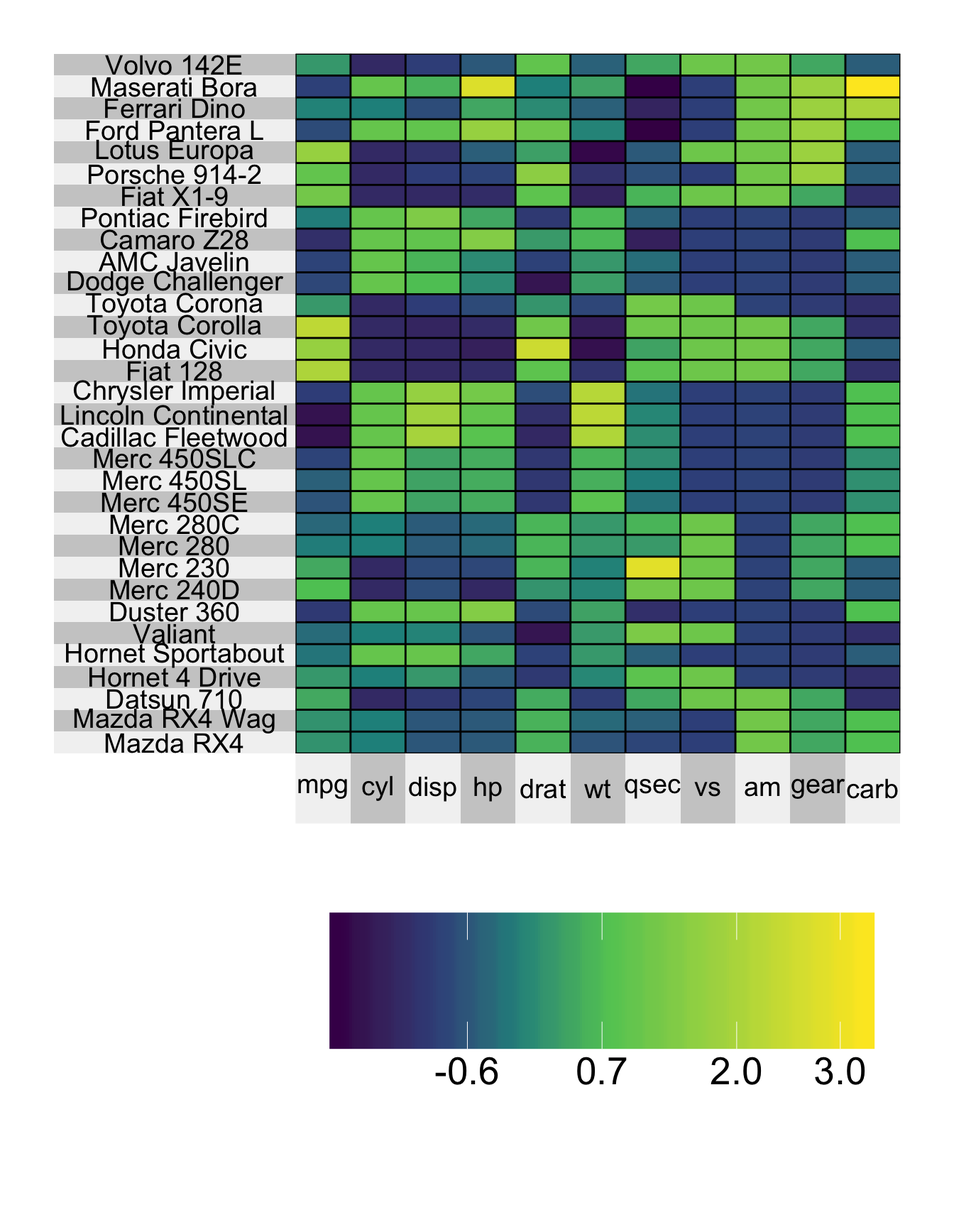
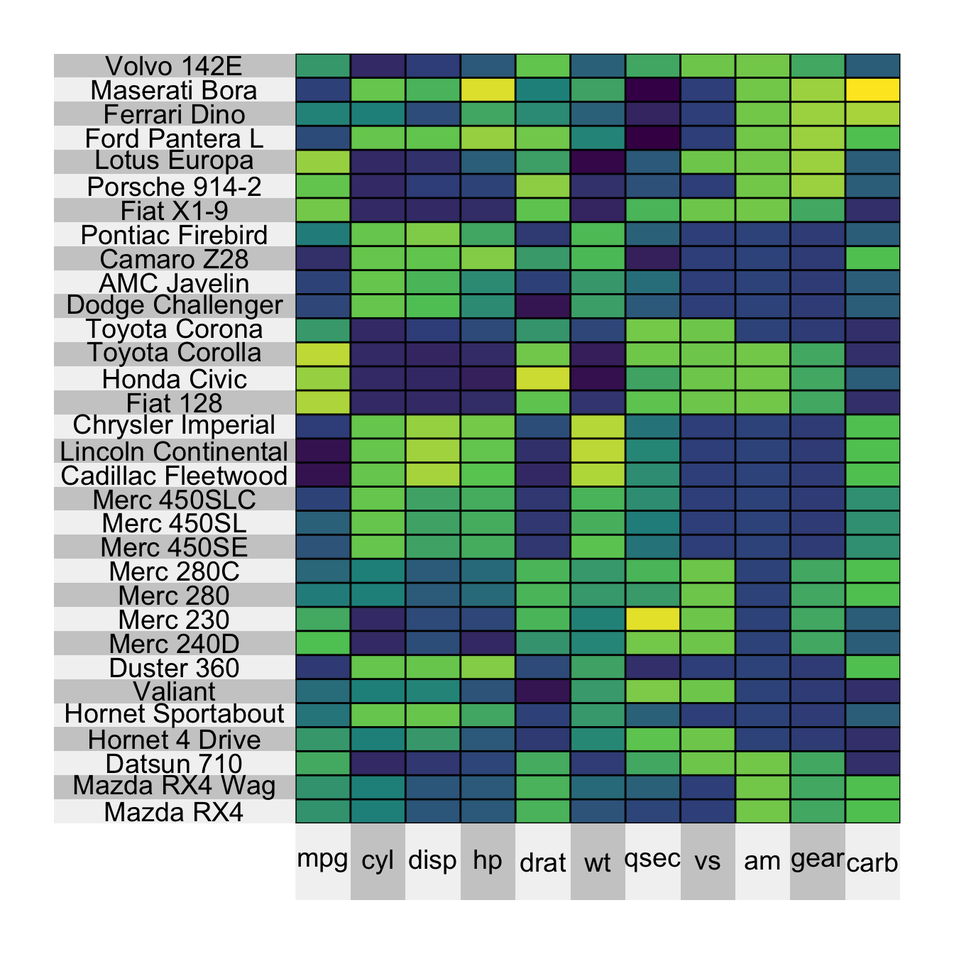
Updated label text size documentation (docathon)

diff --git a/labels.html b/labels.html
@@ -165,9 +165,10 @@ code > span.in { color: #60a0b0; font-weight: bold; font-style: italic; } /* Inf
 <li class="chapter" data-level="10.1" data-path="labels.html"><a href="labels.html#removing-the-labels"><i class="fa fa-check"></i><b>10.1</b> Removing the labels</a></li>
 <li class="chapter" data-level="10.2" data-path="labels.html"><a href="labels.html#label-size"><i class="fa fa-check"></i><b>10.2</b> Label size</a></li>
 <li class="chapter" data-level="10.3" data-path="labels.html"><a href="labels.html#label-color"><i class="fa fa-check"></i><b>10.3</b> Label color</a></li>
-<li class="chapter" data-level="10.4" data-path="labels.html"><a href="labels.html#text-color-1"><i class="fa fa-check"></i><b>10.4</b> Text color</a></li>
-<li class="chapter" data-level="10.5" data-path="labels.html"><a href="labels.html#text-angle-1"><i class="fa fa-check"></i><b>10.5</b> Text angle</a></li>
-<li class="chapter" data-level="10.6" data-path="labels.html"><a href="labels.html#text-alignment"><i class="fa fa-check"></i><b>10.6</b> Text alignment</a></li>
+<li class="chapter" data-level="10.4" data-path="labels.html"><a href="labels.html#label-text-size"><i class="fa fa-check"></i><b>10.4</b> Text size</a></li>
+<li class="chapter" data-level="10.5" data-path="labels.html"><a href="labels.html#text-color-1"><i class="fa fa-check"></i><b>10.5</b> Text color</a></li>
+<li class="chapter" data-level="10.6" data-path="labels.html"><a href="labels.html#text-angle-1"><i class="fa fa-check"></i><b>10.6</b> Text angle</a></li>
+<li class="chapter" data-level="10.7" data-path="labels.html"><a href="labels.html#text-alignment"><i class="fa fa-check"></i><b>10.7</b> Text alignment</a></li>
 </ul></li>
 <li class="chapter" data-level="11" data-path="grid-aesthetics.html"><a href="grid-aesthetics.html"><i class="fa fa-check"></i><b>11</b> Grid aesthetics</a><ul>
 <li class="chapter" data-level="11.1" data-path="grid-aesthetics.html"><a href="grid-aesthetics.html#removing-the-grid"><i class="fa fa-check"></i><b>11.1</b> Removing the grid</a></li>
@@ -217,7 +218,7 @@ code > span.in { color: #60a0b0; font-weight: bold; font-style: italic; } /* Inf
 </div>
 <div id="label-size" class="section level2">
 <h2><span class="header-section-number">10.2</span> Label size</h2>
-<p>We have already seen changing the size of the labels using <code>left.label.size</code> and <code>bottom.label.size</code>.</p>
+<p>We have already seen changing the size of the labels using <code>left.label.size</code> and <code>bottom.label.size</code>. Note that this changes the size of the label bar but does not <a href="labels.html#label-text-size">change the text size</a>.</p>
 </div>
 <div id="label-color" class="section level2">
 <h2><span class="header-section-number">10.3</span> Label color</h2>
@@ -233,22 +234,36 @@ code > span.in { color: #60a0b0; font-weight: bold; font-style: italic; } /* Inf
           <span class="dt">scale =</span> <span class="ot">TRUE</span>)</code></pre></div>
 <p><img src="superheat-vignette_files/figure-html/unnamed-chunk-38-1.png" width="672" style="display: block; margin: auto;" /></p>
 </div>
+<div id="label-text-size" class="section level2">
+<h2><span class="header-section-number">10.4</span> Text size</h2>
+<p>The size of the label text can be changed using the <code>left.label.text.size</code> and <code>bottom.label.text.size</code> arguments.</p>
+<div class="sourceCode"><pre class="sourceCode r"><code class="sourceCode r"><span class="kw">superheat</span>(<span class="dt">X =</span> mtcars, <span class="co"># heatmap matrix</span>
+          <span class="co"># change the size of the labels</span>
+          <span class="dt">left.label.size =</span> <span class="fl">0.6</span>,
+          <span class="dt">bottom.label.size =</span> <span class="fl">0.1</span>,
+          <span class="co"># change the size of the label text</span>
+          <span class="dt">left.label.text.size =</span> <span class="dv">8</span>,
+          <span class="dt">bottom.label.text.size =</span> <span class="dv">6</span>,
+          <span class="co"># scale the matrix columns</span>
+          <span class="dt">scale =</span> <span class="ot">TRUE</span>)</code></pre></div>
+<p><img src="superheat-vignette_files/figure-html/unnamed-chunk-39-1.png" width="864" style="display: block; margin: auto;" /></p>
+</div>
 <div id="text-color-1" class="section level2">
-<h2><span class="header-section-number">10.4</span> Text color</h2>
+<h2><span class="header-section-number">10.5</span> Text color</h2>
 <p>Changing the color of the text can be achieved using the <code>left.label.text.col</code> and <code>bottom.label.text.col</code> arguments.</p>
 <div class="sourceCode"><pre class="sourceCode r"><code class="sourceCode r"><span class="kw">superheat</span>(<span class="dt">X =</span> mtcars, <span class="co"># heatmap matrix</span>
           <span class="co"># change the size of the labels</span>
           <span class="dt">left.label.size =</span> <span class="fl">0.4</span>,
           <span class="dt">bottom.label.size =</span> <span class="fl">0.1</span>,
           <span class="co"># change the color of the label text</span>
-          <span class="dt">left.label.text.col =</span> <span class="st">&quot;#e7298a&quot;</span>,
-          <span class="dt">bottom.label.text.col =</span> <span class="kw">c</span>(<span class="st">&quot;#1b9e77&quot;</span>, <span class="st">&quot;#d95f02&quot;</span>, <span class="st">&quot;#7570b3&quot;</span>),
+          <span class="dt">left.label.col =</span> <span class="st">&quot;white&quot;</span>,
+          <span class="dt">bottom.label.col =</span> <span class="kw">c</span>(<span class="st">&quot;#b3e2cd&quot;</span>,<span class="st">&quot;#fdcdac&quot;</span>,<span class="st">&quot;#e5d8bd&quot;</span>),
           <span class="co"># scale the matrix columns</span>
           <span class="dt">scale =</span> <span class="ot">TRUE</span>)</code></pre></div>
-<p><img src="superheat-vignette_files/figure-html/unnamed-chunk-39-1.png" width="672" style="display: block; margin: auto;" /></p>
+<p><img src="superheat-vignette_files/figure-html/unnamed-chunk-40-1.png" width="672" style="display: block; margin: auto;" /></p>
 </div>
 <div id="text-angle-1" class="section level2">
-<h2><span class="header-section-number">10.5</span> Text angle</h2>
+<h2><span class="header-section-number">10.6</span> Text angle</h2>
 <p>By default, the text has angle 0. Rotating the text by <span class="math inline">\(x\)</span> degrees can be achieved using <code>left.label.text.angle = x</code> or <code>bottom.label.text.angle = x</code>.</p>
 <div class="sourceCode"><pre class="sourceCode r"><code class="sourceCode r"><span class="kw">superheat</span>(<span class="dt">X =</span> mtcars, <span class="co"># heatmap matrix</span>
           <span class="co"># change the size of the labels</span>
@@ -258,10 +273,10 @@ code > span.in { color: #60a0b0; font-weight: bold; font-style: italic; } /* Inf
           <span class="dt">bottom.label.text.angle =</span> <span class="dv">90</span>,
           <span class="co"># scale the matrix columns</span>
           <span class="dt">scale =</span> <span class="ot">TRUE</span>)</code></pre></div>
-<p><img src="superheat-vignette_files/figure-html/unnamed-chunk-40-1.png" width="672" style="display: block; margin: auto;" /></p>
+<p><img src="superheat-vignette_files/figure-html/unnamed-chunk-41-1.png" width="672" style="display: block; margin: auto;" /></p>
 </div>
 <div id="text-alignment" class="section level2">
-<h2><span class="header-section-number">10.6</span> Text alignment</h2>
+<h2><span class="header-section-number">10.7</span> Text alignment</h2>
 <p>By default, the text is center-aligned. Changing to right-aligned or left-aligned can be achieved using the <code>left.label.text.alignment</code> and <code>bottom.label.text.alignment</code> arguments.</p>
 <div class="sourceCode"><pre class="sourceCode r"><code class="sourceCode r"><span class="kw">superheat</span>(<span class="dt">X =</span> mtcars, <span class="co"># heatmap matrix</span>
           <span class="co"># change the size of the labels</span>
@@ -273,7 +288,7 @@ code > span.in { color: #60a0b0; font-weight: bold; font-style: italic; } /* Inf
           <span class="dt">bottom.label.text.alignment =</span> <span class="st">&quot;right&quot;</span>,
           <span class="co"># scale the matrix columns</span>
           <span class="dt">scale =</span> <span class="ot">TRUE</span>)</code></pre></div>
-<p><img src="superheat-vignette_files/figure-html/unnamed-chunk-41-1.png" width="672" style="display: block; margin: auto;" /></p>
+<p><img src="superheat-vignette_files/figure-html/unnamed-chunk-42-1.png" width="672" style="display: block; margin: auto;" /></p>
 
 </div>
 </div>

diff --git a/legend.html b/legend.html
@@ -165,9 +165,10 @@ code > span.in { color: #60a0b0; font-weight: bold; font-style: italic; } /* Inf
 <li class="chapter" data-level="10.1" data-path="labels.html"><a href="labels.html#removing-the-labels"><i class="fa fa-check"></i><b>10.1</b> Removing the labels</a></li>
 <li class="chapter" data-level="10.2" data-path="labels.html"><a href="labels.html#label-size"><i class="fa fa-check"></i><b>10.2</b> Label size</a></li>
 <li class="chapter" data-level="10.3" data-path="labels.html"><a href="labels.html#label-color"><i class="fa fa-check"></i><b>10.3</b> Label color</a></li>
-<li class="chapter" data-level="10.4" data-path="labels.html"><a href="labels.html#text-color-1"><i class="fa fa-check"></i><b>10.4</b> Text color</a></li>
-<li class="chapter" data-level="10.5" data-path="labels.html"><a href="labels.html#text-angle-1"><i class="fa fa-check"></i><b>10.5</b> Text angle</a></li>
-<li class="chapter" data-level="10.6" data-path="labels.html"><a href="labels.html#text-alignment"><i class="fa fa-check"></i><b>10.6</b> Text alignment</a></li>
+<li class="chapter" data-level="10.4" data-path="labels.html"><a href="labels.html#label-text-size"><i class="fa fa-check"></i><b>10.4</b> Text size</a></li>
+<li class="chapter" data-level="10.5" data-path="labels.html"><a href="labels.html#text-color-1"><i class="fa fa-check"></i><b>10.5</b> Text color</a></li>
+<li class="chapter" data-level="10.6" data-path="labels.html"><a href="labels.html#text-angle-1"><i class="fa fa-check"></i><b>10.6</b> Text angle</a></li>
+<li class="chapter" data-level="10.7" data-path="labels.html"><a href="labels.html#text-alignment"><i class="fa fa-check"></i><b>10.7</b> Text alignment</a></li>
 </ul></li>
 <li class="chapter" data-level="11" data-path="grid-aesthetics.html"><a href="grid-aesthetics.html"><i class="fa fa-check"></i><b>11</b> Grid aesthetics</a><ul>
 <li class="chapter" data-level="11.1" data-path="grid-aesthetics.html"><a href="grid-aesthetics.html#removing-the-grid"><i class="fa fa-check"></i><b>11.1</b> Removing the grid</a></li>
@@ -214,7 +215,7 @@ code > span.in { color: #60a0b0; font-weight: bold; font-style: italic; } /* Inf
           
           <span class="co"># remove the legend</span>
           <span class="dt">legend =</span> <span class="ot">FALSE</span>)</code></pre></div>
-<p><img src="superheat-vignette_files/figure-html/unnamed-chunk-42-1.png" width="672" style="display: block; margin: auto;" /></p>
+<p><img src="superheat-vignette_files/figure-html/unnamed-chunk-43-1.png" width="672" style="display: block; margin: auto;" /></p>
 </div>
 <div id="size-3" class="section level2">
 <h2><span class="header-section-number">12.2</span> Size</h2>
@@ -230,7 +231,7 @@ code > span.in { color: #60a0b0; font-weight: bold; font-style: italic; } /* Inf
           <span class="dt">legend.height =</span> <span class="fl">0.5</span>,
           <span class="dt">legend.width =</span> <span class="dv">2</span>,
           <span class="dt">legend.text.size =</span> <span class="dv">20</span>)</code></pre></div>
-<p><img src="superheat-vignette_files/figure-html/unnamed-chunk-43-1.png" width="672" style="display: block; margin: auto;" /></p>
+<p><img src="superheat-vignette_files/figure-html/unnamed-chunk-44-1.png" width="672" style="display: block; margin: auto;" /></p>
 </div>
 <div id="legend-breaks" class="section level2">
 <h2><span class="header-section-number">12.3</span> Legend breaks</h2>
@@ -244,7 +245,7 @@ code > span.in { color: #60a0b0; font-weight: bold; font-style: italic; } /* Inf
           
           <span class="co"># specify the legend breaks</span>
           <span class="dt">legend.breaks =</span> <span class="kw">c</span>(-<span class="fl">0.5</span>, <span class="fl">0.5</span>, <span class="fl">1.5</span>))</code></pre></div>
-<p><img src="superheat-vignette_files/figure-html/unnamed-chunk-44-1.png" width="672" style="display: block; margin: auto;" /></p>
+<p><img src="superheat-vignette_files/figure-html/unnamed-chunk-45-1.png" width="672" style="display: block; margin: auto;" /></p>
 
 </div>
 </div>

diff --git a/adding-text.html b/adding-text.html
@@ -165,9 +165,10 @@ code > span.in { color: #60a0b0; font-weight: bold; font-style: italic; } /* Inf
 <li class="chapter" data-level="10.1" data-path="labels.html"><a href="labels.html#removing-the-labels"><i class="fa fa-check"></i><b>10.1</b> Removing the labels</a></li>
 <li class="chapter" data-level="10.2" data-path="labels.html"><a href="labels.html#label-size"><i class="fa fa-check"></i><b>10.2</b> Label size</a></li>
 <li class="chapter" data-level="10.3" data-path="labels.html"><a href="labels.html#label-color"><i class="fa fa-check"></i><b>10.3</b> Label color</a></li>
-<li class="chapter" data-level="10.4" data-path="labels.html"><a href="labels.html#text-color-1"><i class="fa fa-check"></i><b>10.4</b> Text color</a></li>
-<li class="chapter" data-level="10.5" data-path="labels.html"><a href="labels.html#text-angle-1"><i class="fa fa-check"></i><b>10.5</b> Text angle</a></li>
-<li class="chapter" data-level="10.6" data-path="labels.html"><a href="labels.html#text-alignment"><i class="fa fa-check"></i><b>10.6</b> Text alignment</a></li>
+<li class="chapter" data-level="10.4" data-path="labels.html"><a href="labels.html#label-text-size"><i class="fa fa-check"></i><b>10.4</b> Text size</a></li>
+<li class="chapter" data-level="10.5" data-path="labels.html"><a href="labels.html#text-color-1"><i class="fa fa-check"></i><b>10.5</b> Text color</a></li>
+<li class="chapter" data-level="10.6" data-path="labels.html"><a href="labels.html#text-angle-1"><i class="fa fa-check"></i><b>10.6</b> Text angle</a></li>
+<li class="chapter" data-level="10.7" data-path="labels.html"><a href="labels.html#text-alignment"><i class="fa fa-check"></i><b>10.7</b> Text alignment</a></li>
 </ul></li>
 <li class="chapter" data-level="11" data-path="grid-aesthetics.html"><a href="grid-aesthetics.html"><i class="fa fa-check"></i><b>11</b> Grid aesthetics</a><ul>
 <li class="chapter" data-level="11.1" data-path="grid-aesthetics.html"><a href="grid-aesthetics.html#removing-the-grid"><i class="fa fa-check"></i><b>11.1</b> Removing the grid</a></li>

diff --git a/adjacent-plots.html b/adjacent-plots.html
@@ -165,9 +165,10 @@ code > span.in { color: #60a0b0; font-weight: bold; font-style: italic; } /* Inf
 <li class="chapter" data-level="10.1" data-path="labels.html"><a href="labels.html#removing-the-labels"><i class="fa fa-check"></i><b>10.1</b> Removing the labels</a></li>
 <li class="chapter" data-level="10.2" data-path="labels.html"><a href="labels.html#label-size"><i class="fa fa-check"></i><b>10.2</b> Label size</a></li>
 <li class="chapter" data-level="10.3" data-path="labels.html"><a href="labels.html#label-color"><i class="fa fa-check"></i><b>10.3</b> Label color</a></li>
-<li class="chapter" data-level="10.4" data-path="labels.html"><a href="labels.html#text-color-1"><i class="fa fa-check"></i><b>10.4</b> Text color</a></li>
-<li class="chapter" data-level="10.5" data-path="labels.html"><a href="labels.html#text-angle-1"><i class="fa fa-check"></i><b>10.5</b> Text angle</a></li>
-<li class="chapter" data-level="10.6" data-path="labels.html"><a href="labels.html#text-alignment"><i class="fa fa-check"></i><b>10.6</b> Text alignment</a></li>
+<li class="chapter" data-level="10.4" data-path="labels.html"><a href="labels.html#label-text-size"><i class="fa fa-check"></i><b>10.4</b> Text size</a></li>
+<li class="chapter" data-level="10.5" data-path="labels.html"><a href="labels.html#text-color-1"><i class="fa fa-check"></i><b>10.5</b> Text color</a></li>
+<li class="chapter" data-level="10.6" data-path="labels.html"><a href="labels.html#text-angle-1"><i class="fa fa-check"></i><b>10.6</b> Text angle</a></li>
+<li class="chapter" data-level="10.7" data-path="labels.html"><a href="labels.html#text-alignment"><i class="fa fa-check"></i><b>10.7</b> Text alignment</a></li>
 </ul></li>
 <li class="chapter" data-level="11" data-path="grid-aesthetics.html"><a href="grid-aesthetics.html"><i class="fa fa-check"></i><b>11</b> Grid aesthetics</a><ul>
 <li class="chapter" data-level="11.1" data-path="grid-aesthetics.html"><a href="grid-aesthetics.html#removing-the-grid"><i class="fa fa-check"></i><b>11.1</b> Removing the grid</a></li>

diff --git a/basic-usage.html b/basic-usage.html
@@ -165,9 +165,10 @@ code > span.in { color: #60a0b0; font-weight: bold; font-style: italic; } /* Inf
 <li class="chapter" data-level="10.1" data-path="labels.html"><a href="labels.html#removing-the-labels"><i class="fa fa-check"></i><b>10.1</b> Removing the labels</a></li>
 <li class="chapter" data-level="10.2" data-path="labels.html"><a href="labels.html#label-size"><i class="fa fa-check"></i><b>10.2</b> Label size</a></li>
 <li class="chapter" data-level="10.3" data-path="labels.html"><a href="labels.html#label-color"><i class="fa fa-check"></i><b>10.3</b> Label color</a></li>
-<li class="chapter" data-level="10.4" data-path="labels.html"><a href="labels.html#text-color-1"><i class="fa fa-check"></i><b>10.4</b> Text color</a></li>
-<li class="chapter" data-level="10.5" data-path="labels.html"><a href="labels.html#text-angle-1"><i class="fa fa-check"></i><b>10.5</b> Text angle</a></li>
-<li class="chapter" data-level="10.6" data-path="labels.html"><a href="labels.html#text-alignment"><i class="fa fa-check"></i><b>10.6</b> Text alignment</a></li>
+<li class="chapter" data-level="10.4" data-path="labels.html"><a href="labels.html#label-text-size"><i class="fa fa-check"></i><b>10.4</b> Text size</a></li>
+<li class="chapter" data-level="10.5" data-path="labels.html"><a href="labels.html#text-color-1"><i class="fa fa-check"></i><b>10.5</b> Text color</a></li>
+<li class="chapter" data-level="10.6" data-path="labels.html"><a href="labels.html#text-angle-1"><i class="fa fa-check"></i><b>10.6</b> Text angle</a></li>
+<li class="chapter" data-level="10.7" data-path="labels.html"><a href="labels.html#text-alignment"><i class="fa fa-check"></i><b>10.7</b> Text alignment</a></li>
 </ul></li>
 <li class="chapter" data-level="11" data-path="grid-aesthetics.html"><a href="grid-aesthetics.html"><i class="fa fa-check"></i><b>11</b> Grid aesthetics</a><ul>
 <li class="chapter" data-level="11.1" data-path="grid-aesthetics.html"><a href="grid-aesthetics.html#removing-the-grid"><i class="fa fa-check"></i><b>11.1</b> Removing the grid</a></li>

diff --git a/clustering.html b/clustering.html
@@ -165,9 +165,10 @@ code > span.in { color: #60a0b0; font-weight: bold; font-style: italic; } /* Inf
 <li class="chapter" data-level="10.1" data-path="labels.html"><a href="labels.html#removing-the-labels"><i class="fa fa-check"></i><b>10.1</b> Removing the labels</a></li>
 <li class="chapter" data-level="10.2" data-path="labels.html"><a href="labels.html#label-size"><i class="fa fa-check"></i><b>10.2</b> Label size</a></li>
 <li class="chapter" data-level="10.3" data-path="labels.html"><a href="labels.html#label-color"><i class="fa fa-check"></i><b>10.3</b> Label color</a></li>
-<li class="chapter" data-level="10.4" data-path="labels.html"><a href="labels.html#text-color-1"><i class="fa fa-check"></i><b>10.4</b> Text color</a></li>
-<li class="chapter" data-level="10.5" data-path="labels.html"><a href="labels.html#text-angle-1"><i class="fa fa-check"></i><b>10.5</b> Text angle</a></li>
-<li class="chapter" data-level="10.6" data-path="labels.html"><a href="labels.html#text-alignment"><i class="fa fa-check"></i><b>10.6</b> Text alignment</a></li>
+<li class="chapter" data-level="10.4" data-path="labels.html"><a href="labels.html#label-text-size"><i class="fa fa-check"></i><b>10.4</b> Text size</a></li>
+<li class="chapter" data-level="10.5" data-path="labels.html"><a href="labels.html#text-color-1"><i class="fa fa-check"></i><b>10.5</b> Text color</a></li>
+<li class="chapter" data-level="10.6" data-path="labels.html"><a href="labels.html#text-angle-1"><i class="fa fa-check"></i><b>10.6</b> Text angle</a></li>
+<li class="chapter" data-level="10.7" data-path="labels.html"><a href="labels.html#text-alignment"><i class="fa fa-check"></i><b>10.7</b> Text alignment</a></li>
 </ul></li>
 <li class="chapter" data-level="11" data-path="grid-aesthetics.html"><a href="grid-aesthetics.html"><i class="fa fa-check"></i><b>11</b> Grid aesthetics</a><ul>
 <li class="chapter" data-level="11.1" data-path="grid-aesthetics.html"><a href="grid-aesthetics.html#removing-the-grid"><i class="fa fa-check"></i><b>11.1</b> Removing the grid</a></li>

diff --git a/conclusion.html b/conclusion.html
@@ -165,9 +165,10 @@ code > span.in { color: #60a0b0; font-weight: bold; font-style: italic; } /* Inf
 <li class="chapter" data-level="10.1" data-path="labels.html"><a href="labels.html#removing-the-labels"><i class="fa fa-check"></i><b>10.1</b> Removing the labels</a></li>
 <li class="chapter" data-level="10.2" data-path="labels.html"><a href="labels.html#label-size"><i class="fa fa-check"></i><b>10.2</b> Label size</a></li>
 <li class="chapter" data-level="10.3" data-path="labels.html"><a href="labels.html#label-color"><i class="fa fa-check"></i><b>10.3</b> Label color</a></li>
-<li class="chapter" data-level="10.4" data-path="labels.html"><a href="labels.html#text-color-1"><i class="fa fa-check"></i><b>10.4</b> Text color</a></li>
-<li class="chapter" data-level="10.5" data-path="labels.html"><a href="labels.html#text-angle-1"><i class="fa fa-check"></i><b>10.5</b> Text angle</a></li>
-<li class="chapter" data-level="10.6" data-path="labels.html"><a href="labels.html#text-alignment"><i class="fa fa-check"></i><b>10.6</b> Text alignment</a></li>
+<li class="chapter" data-level="10.4" data-path="labels.html"><a href="labels.html#label-text-size"><i class="fa fa-check"></i><b>10.4</b> Text size</a></li>
+<li class="chapter" data-level="10.5" data-path="labels.html"><a href="labels.html#text-color-1"><i class="fa fa-check"></i><b>10.5</b> Text color</a></li>
+<li class="chapter" data-level="10.6" data-path="labels.html"><a href="labels.html#text-angle-1"><i class="fa fa-check"></i><b>10.6</b> Text angle</a></li>
+<li class="chapter" data-level="10.7" data-path="labels.html"><a href="labels.html#text-alignment"><i class="fa fa-check"></i><b>10.7</b> Text alignment</a></li>
 </ul></li>
 <li class="chapter" data-level="11" data-path="grid-aesthetics.html"><a href="grid-aesthetics.html"><i class="fa fa-check"></i><b>11</b> Grid aesthetics</a><ul>
 <li class="chapter" data-level="11.1" data-path="grid-aesthetics.html"><a href="grid-aesthetics.html#removing-the-grid"><i class="fa fa-check"></i><b>11.1</b> Removing the grid</a></li>

diff --git a/grid-aesthetics.html b/grid-aesthetics.html
@@ -165,9 +165,10 @@ code > span.in { color: #60a0b0; font-weight: bold; font-style: italic; } /* Inf
 <li class="chapter" data-level="10.1" data-path="labels.html"><a href="labels.html#removing-the-labels"><i class="fa fa-check"></i><b>10.1</b> Removing the labels</a></li>
 <li class="chapter" data-level="10.2" data-path="labels.html"><a href="labels.html#label-size"><i class="fa fa-check"></i><b>10.2</b> Label size</a></li>
 <li class="chapter" data-level="10.3" data-path="labels.html"><a href="labels.html#label-color"><i class="fa fa-check"></i><b>10.3</b> Label color</a></li>
-<li class="chapter" data-level="10.4" data-path="labels.html"><a href="labels.html#text-color-1"><i class="fa fa-check"></i><b>10.4</b> Text color</a></li>
-<li class="chapter" data-level="10.5" data-path="labels.html"><a href="labels.html#text-angle-1"><i class="fa fa-check"></i><b>10.5</b> Text angle</a></li>
-<li class="chapter" data-level="10.6" data-path="labels.html"><a href="labels.html#text-alignment"><i class="fa fa-check"></i><b>10.6</b> Text alignment</a></li>
+<li class="chapter" data-level="10.4" data-path="labels.html"><a href="labels.html#label-text-size"><i class="fa fa-check"></i><b>10.4</b> Text size</a></li>
+<li class="chapter" data-level="10.5" data-path="labels.html"><a href="labels.html#text-color-1"><i class="fa fa-check"></i><b>10.5</b> Text color</a></li>
+<li class="chapter" data-level="10.6" data-path="labels.html"><a href="labels.html#text-angle-1"><i class="fa fa-check"></i><b>10.6</b> Text angle</a></li>
+<li class="chapter" data-level="10.7" data-path="labels.html"><a href="labels.html#text-alignment"><i class="fa fa-check"></i><b>10.7</b> Text alignment</a></li>
 </ul></li>
 <li class="chapter" data-level="11" data-path="grid-aesthetics.html"><a href="grid-aesthetics.html"><i class="fa fa-check"></i><b>11</b> Grid aesthetics</a><ul>
 <li class="chapter" data-level="11.1" data-path="grid-aesthetics.html"><a href="grid-aesthetics.html#removing-the-grid"><i class="fa fa-check"></i><b>11.1</b> Removing the grid</a></li>

diff --git a/heatmap-colormap.html b/heatmap-colormap.html
@@ -165,9 +165,10 @@ code > span.in { color: #60a0b0; font-weight: bold; font-style: italic; } /* Inf
 <li class="chapter" data-level="10.1" data-path="labels.html"><a href="labels.html#removing-the-labels"><i class="fa fa-check"></i><b>10.1</b> Removing the labels</a></li>
 <li class="chapter" data-level="10.2" data-path="labels.html"><a href="labels.html#label-size"><i class="fa fa-check"></i><b>10.2</b> Label size</a></li>
 <li class="chapter" data-level="10.3" data-path="labels.html"><a href="labels.html#label-color"><i class="fa fa-check"></i><b>10.3</b> Label color</a></li>
-<li class="chapter" data-level="10.4" data-path="labels.html"><a href="labels.html#text-color-1"><i class="fa fa-check"></i><b>10.4</b> Text color</a></li>
-<li class="chapter" data-level="10.5" data-path="labels.html"><a href="labels.html#text-angle-1"><i class="fa fa-check"></i><b>10.5</b> Text angle</a></li>
-<li class="chapter" data-level="10.6" data-path="labels.html"><a href="labels.html#text-alignment"><i class="fa fa-check"></i><b>10.6</b> Text alignment</a></li>
+<li class="chapter" data-level="10.4" data-path="labels.html"><a href="labels.html#label-text-size"><i class="fa fa-check"></i><b>10.4</b> Text size</a></li>
+<li class="chapter" data-level="10.5" data-path="labels.html"><a href="labels.html#text-color-1"><i class="fa fa-check"></i><b>10.5</b> Text color</a></li>
+<li class="chapter" data-level="10.6" data-path="labels.html"><a href="labels.html#text-angle-1"><i class="fa fa-check"></i><b>10.6</b> Text angle</a></li>
+<li class="chapter" data-level="10.7" data-path="labels.html"><a href="labels.html#text-alignment"><i class="fa fa-check"></i><b>10.7</b> Text alignment</a></li>
 </ul></li>
 <li class="chapter" data-level="11" data-path="grid-aesthetics.html"><a href="grid-aesthetics.html"><i class="fa fa-check"></i><b>11</b> Grid aesthetics</a><ul>
 <li class="chapter" data-level="11.1" data-path="grid-aesthetics.html"><a href="grid-aesthetics.html#removing-the-grid"><i class="fa fa-check"></i><b>11.1</b> Removing the grid</a></li>

diff --git a/index.html b/index.html
@@ -165,9 +165,10 @@ code > span.in { color: #60a0b0; font-weight: bold; font-style: italic; } /* Inf
 <li class="chapter" data-level="10.1" data-path="labels.html"><a href="labels.html#removing-the-labels"><i class="fa fa-check"></i><b>10.1</b> Removing the labels</a></li>
 <li class="chapter" data-level="10.2" data-path="labels.html"><a href="labels.html#label-size"><i class="fa fa-check"></i><b>10.2</b> Label size</a></li>
 <li class="chapter" data-level="10.3" data-path="labels.html"><a href="labels.html#label-color"><i class="fa fa-check"></i><b>10.3</b> Label color</a></li>
-<li class="chapter" data-level="10.4" data-path="labels.html"><a href="labels.html#text-color-1"><i class="fa fa-check"></i><b>10.4</b> Text color</a></li>
-<li class="chapter" data-level="10.5" data-path="labels.html"><a href="labels.html#text-angle-1"><i class="fa fa-check"></i><b>10.5</b> Text angle</a></li>
-<li class="chapter" data-level="10.6" data-path="labels.html"><a href="labels.html#text-alignment"><i class="fa fa-check"></i><b>10.6</b> Text alignment</a></li>
+<li class="chapter" data-level="10.4" data-path="labels.html"><a href="labels.html#label-text-size"><i class="fa fa-check"></i><b>10.4</b> Text size</a></li>
+<li class="chapter" data-level="10.5" data-path="labels.html"><a href="labels.html#text-color-1"><i class="fa fa-check"></i><b>10.5</b> Text color</a></li>
+<li class="chapter" data-level="10.6" data-path="labels.html"><a href="labels.html#text-angle-1"><i class="fa fa-check"></i><b>10.6</b> Text angle</a></li>
+<li class="chapter" data-level="10.7" data-path="labels.html"><a href="labels.html#text-alignment"><i class="fa fa-check"></i><b>10.7</b> Text alignment</a></li>
 </ul></li>
 <li class="chapter" data-level="11" data-path="grid-aesthetics.html"><a href="grid-aesthetics.html"><i class="fa fa-check"></i><b>11</b> Grid aesthetics</a><ul>
 <li class="chapter" data-level="11.1" data-path="grid-aesthetics.html"><a href="grid-aesthetics.html#removing-the-grid"><i class="fa fa-check"></i><b>11.1</b> Removing the grid</a></li>

diff --git a/missing-data.html b/missing-data.html
@@ -165,9 +165,10 @@ code > span.in { color: #60a0b0; font-weight: bold; font-style: italic; } /* Inf
 <li class="chapter" data-level="10.1" data-path="labels.html"><a href="labels.html#removing-the-labels"><i class="fa fa-check"></i><b>10.1</b> Removing the labels</a></li>
 <li class="chapter" data-level="10.2" data-path="labels.html"><a href="labels.html#label-size"><i class="fa fa-check"></i><b>10.2</b> Label size</a></li>
 <li class="chapter" data-level="10.3" data-path="labels.html"><a href="labels.html#label-color"><i class="fa fa-check"></i><b>10.3</b> Label color</a></li>
-<li class="chapter" data-level="10.4" data-path="labels.html"><a href="labels.html#text-color-1"><i class="fa fa-check"></i><b>10.4</b> Text color</a></li>
-<li class="chapter" data-level="10.5" data-path="labels.html"><a href="labels.html#text-angle-1"><i class="fa fa-check"></i><b>10.5</b> Text angle</a></li>
-<li class="chapter" data-level="10.6" data-path="labels.html"><a href="labels.html#text-alignment"><i class="fa fa-check"></i><b>10.6</b> Text alignment</a></li>
+<li class="chapter" data-level="10.4" data-path="labels.html"><a href="labels.html#label-text-size"><i class="fa fa-check"></i><b>10.4</b> Text size</a></li>
+<li class="chapter" data-level="10.5" data-path="labels.html"><a href="labels.html#text-color-1"><i class="fa fa-check"></i><b>10.5</b> Text color</a></li>
+<li class="chapter" data-level="10.6" data-path="labels.html"><a href="labels.html#text-angle-1"><i class="fa fa-check"></i><b>10.6</b> Text angle</a></li>
+<li class="chapter" data-level="10.7" data-path="labels.html"><a href="labels.html#text-alignment"><i class="fa fa-check"></i><b>10.7</b> Text alignment</a></li>
 </ul></li>
 <li class="chapter" data-level="11" data-path="grid-aesthetics.html"><a href="grid-aesthetics.html"><i class="fa fa-check"></i><b>11</b> Grid aesthetics</a><ul>
 <li class="chapter" data-level="11.1" data-path="grid-aesthetics.html"><a href="grid-aesthetics.html#removing-the-grid"><i class="fa fa-check"></i><b>11.1</b> Removing the grid</a></li>

diff --git a/ordering-rows-and-columns.html b/ordering-rows-and-columns.html
@@ -165,9 +165,10 @@ code > span.in { color: #60a0b0; font-weight: bold; font-style: italic; } /* Inf
 <li class="chapter" data-level="10.1" data-path="labels.html"><a href="labels.html#removing-the-labels"><i class="fa fa-check"></i><b>10.1</b> Removing the labels</a></li>
 <li class="chapter" data-level="10.2" data-path="labels.html"><a href="labels.html#label-size"><i class="fa fa-check"></i><b>10.2</b> Label size</a></li>
 <li class="chapter" data-level="10.3" data-path="labels.html"><a href="labels.html#label-color"><i class="fa fa-check"></i><b>10.3</b> Label color</a></li>
-<li class="chapter" data-level="10.4" data-path="labels.html"><a href="labels.html#text-color-1"><i class="fa fa-check"></i><b>10.4</b> Text color</a></li>
-<li class="chapter" data-level="10.5" data-path="labels.html"><a href="labels.html#text-angle-1"><i class="fa fa-check"></i><b>10.5</b> Text angle</a></li>
-<li class="chapter" data-level="10.6" data-path="labels.html"><a href="labels.html#text-alignment"><i class="fa fa-check"></i><b>10.6</b> Text alignment</a></li>
+<li class="chapter" data-level="10.4" data-path="labels.html"><a href="labels.html#label-text-size"><i class="fa fa-check"></i><b>10.4</b> Text size</a></li>
+<li class="chapter" data-level="10.5" data-path="labels.html"><a href="labels.html#text-color-1"><i class="fa fa-check"></i><b>10.5</b> Text color</a></li>
+<li class="chapter" data-level="10.6" data-path="labels.html"><a href="labels.html#text-angle-1"><i class="fa fa-check"></i><b>10.6</b> Text angle</a></li>
+<li class="chapter" data-level="10.7" data-path="labels.html"><a href="labels.html#text-alignment"><i class="fa fa-check"></i><b>10.7</b> Text alignment</a></li>
 </ul></li>
 <li class="chapter" data-level="11" data-path="grid-aesthetics.html"><a href="grid-aesthetics.html"><i class="fa fa-check"></i><b>11</b> Grid aesthetics</a><ul>
 <li class="chapter" data-level="11.1" data-path="grid-aesthetics.html"><a href="grid-aesthetics.html#removing-the-grid"><i class="fa fa-check"></i><b>11.1</b> Removing the grid</a></li>
